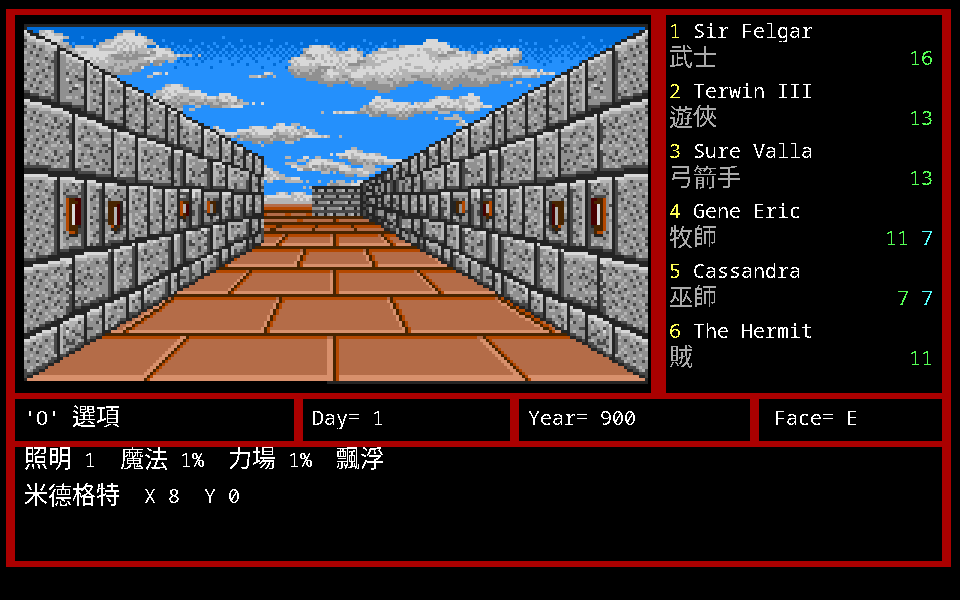
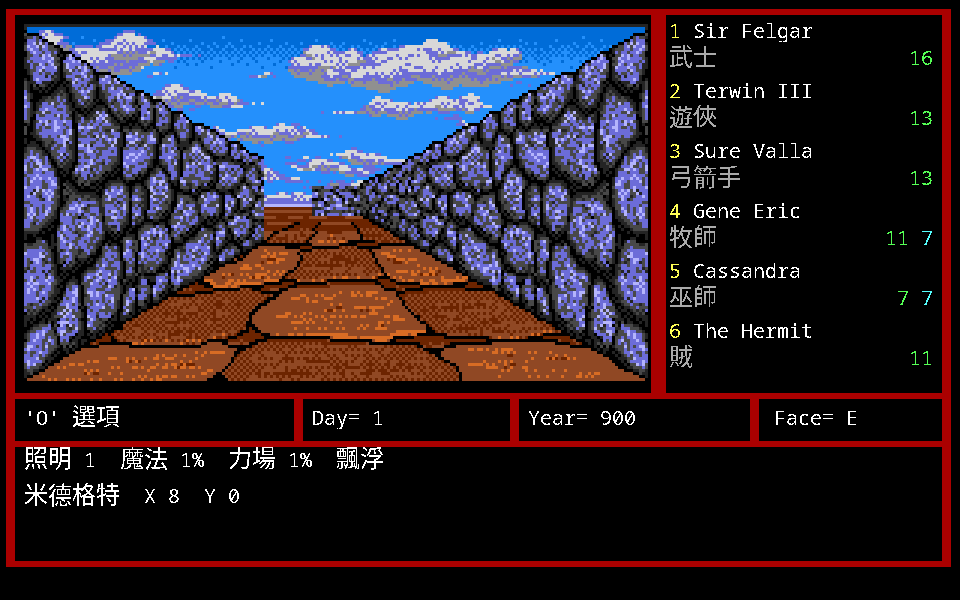
fix: Mega Drive 城鎮用的是亂石砌那一套，不是方石砌
實機截圖定案：Middlegate (8,0) 面東的區域類型是 **0**，畫面是藍紫色的亂石
配紅褐地磚，不是先前選的方石砌。`sub_FC38` 的跳表把類型 0 與 1 收到同一批
素材，兩型靠調色盤分色（類型 0 第 1 條、類型 1 第 2 條）—— 所以「看起來
不像同一個地方」不能當反證。`mdSceneArea` 改成 0，截圖跟著重出。

先前是拿「哪一套最像 DOS 的 `TOWN.16`」推的，那是二手推論；區域類型的值
與跳表才是一手資料。推翻紀錄進 CONTEXT §5。

光照的文件也照實測補完：亮度 0–8，`floor(分量 × 亮度 ÷ 8)`，實際只用四個
穩態級（8 正常／6 夜晚／2 無光源／0 換場起點），其餘只在漸變的中間幀出現。
`-$4F0(a5)` 是**光源剩餘時間不是強度**（寫 1、10、255 結果相同），
`-$35D4(a5)` 是戶外的日光目標級、不是目前級數。**火把的火焰不吃光照** ——
CRAM 第 3 條那三格永遠是未調暗的值，所以暗地城裡火把仍然亮橘。

驗證方式值得記：**想量「連續變化的量」就去中斷漸變迴圈**，一次漸變把七級
全部拿齊，不必一個穩態跑一次模擬器。

Changed region(s): [[0.0, 0.03, 0.6875, 0.66]]

diff --git a/internal/ui/session.go b/internal/ui/session.go
@@ -2101,10 +2101,11 @@ func loadMSXTown(dir string) (*view.TownSet, error) {
 
 // mdSceneArea 是 Mega Drive 三套場景素材裡要拿來當「城鎮」的那一套。
 //
-// 三套的內容分別是：0 粗石洞窟、1 方石牆（牆上有壁燈，對應 DOS 的
-// `TOWN.16`）、2 戶外山景。remake 目前整個遊戲只用一套場景素材，
-// 所以取 1。
-const mdSceneArea = 1
+// `sub_FC38` 的七格跳表把區域類型收斂成三套：類型 0、1 是亂石砌，
+// 2、5 是方石砌，3、4、6 是戶外山景。**Middlegate 是類型 0**，所以城鎮要
+// 用第 0 套 —— 實機截圖是藍紫色的亂石配紅褐地磚，不是方石砌那一套。
+// remake 目前整個遊戲只用一套場景素材。
+const mdSceneArea = 0
 
 type mdSceneManifest struct {
 	Source string `json:"source"`

diff --git a/tools/mdscene.py b/tools/mdscene.py
@@ -134,8 +134,11 @@ GRAY = [(255, 0, 255)] + [(i * 17, i * 17, i * 17) for i in range(1, 16)]
 ROM_CRAM = 0x6FBEA
 
 # 三塊素材各自該用第幾條。第 0 塊同時服務區域類型 0 與 1，**那兩型用的不是
-# 同一條**（1 與 2）—— 同一批牆面素材在兩種區域類型下是不同顏色。
-# 這裡取第一型（第 1 條）；remake 用的是第 1 塊。
+# 同一條**（1 與 2）—— 同一批牆面素材在兩種區域類型下是不同顏色：
+# 城鎮（類型 0）是藍紫色的亂石，地城（類型 1）是灰色的。這裡取城鎮那一條。
+#
+# 實機對照：Middlegate (8,0) 面東是**類型 0**，畫面是藍紫亂石 ＋ 紅褐地磚
+# （`workplace/genesis/out/light/04-town-day-screen.png`）。
 BLOCK_PAL_LINE = [1, 0, 3]
 
 

diff --git a/CONTEXT.md b/CONTEXT.md
@@ -43,7 +43,7 @@
 | remake 一般寶箱 | 一般戰鬥勝利已接到 `Encounter.VictoryChestFromItems`→`ui.Session.Chest`，勝利後自動開四選單；怪物 `+0x10` 掉落欄位、`sub_188FC` 金幣／寶石累加、`sub_19BF8` 0–3 件物品生成均有 typed 鏈。快速戰鬥、正常 UI、逃跑移除前累加與離開清除均有測試；競技賽與事件 `0x2a` 分支保留。**「探索中搜尋寶箱的來源」已結案（2026-08-14）：原版沒有那條路徑**，`ds:0434`／`ds:6950–695F` 的八個寫入端全部掃出，內容只來自事件腳本與戰鬥戰利品。見 [`chest-trigger-oracle.md`](docs/research/chest-trigger-oracle.md)。**觸發點也結案了（2026-08-15）**：四選單由探索模式按 `S`（搜尋）打開 —— `2PLAY` 指令分派 `0x181E8` → thunk `0x17336` → root `0x13814`，那支五組獎賞陣列全空就印 `Nothing Here!`。`_2misc_e02` 的 thunk 全域只有這一個呼叫端，所以原版**所有**獎賞都只能經搜尋領取。`ds:0434 == 0xFE`（神殿）由主迴圈 `0x18032` 自動 `inc` 成 `0xFF` 並自動搜尋，先前列為「語意未定」的那條就是它。remake 已改成戰後擺著、按 `S` 才開，並補上「這裡什麼都沒有」。見 [`command-keys-oracle.md`](docs/research/command-keys-oracle.md)。| 事件 `0x2a` 那條 remake 仍自動發放（原版要按 `S`），差異理由記在 [`polish-spec`](docs/polish-spec.md) P11。|
 | remake 怪物動畫 | 使用者選擇先接可逆的保守方案：正常戰鬥 UI 逐步遵守 `MONSTERS.16` 的原始 hold，播放每張圖第一個完整合法序列；無合法序列退回基準圖，換場重設。這證明動畫資料與 UI 垂直鏈已接通，但序列對應待機／攻擊／受擊仍是強推論，不宣稱 DOS exact。**動畫表的結構已修正（2026-08-15）**：沒有「表頭」，`FF` 是每一段的結束標記，59 個槽共 240 段（原本記 181 是把 59 個第一段當表頭扣掉）；槽 9 檔案裡那張表是壞的，原版在 root `0x12711` 用 `ds:4B92` 的 36 bytes 修補，remake 已照做。**第一段不是動畫是播放腳本**（段編號, 停留），bit 7 ＝「`rand(1, 低7位)` 隨機挑一段」（root `0x15735` 呼叫的正是亂數產生器）；136 個腳本項的段編號一律落在 1..段數-1，零例外。影格編號越界也不是壞資料 —— 原版比對影格數後畫影格 0。remake 已照腳本挑段並隨機化。| 日後取得 DOS 連續戰鬥 oracle 時，只替換序列用途選擇；不得推翻已證實的影格、序列與 hold 解碼。|
 | remake 本機音樂 | Mega Drive／MSX／Amiga 三版均已由序列器與正常呼叫證實有音樂；Mega Drive 的 16 首場景曲目最完整。引擎已有 PCM WAV 音樂包 manifest、完整性／路徑安全驗證、正常 UI 的城鎮／地城／戶外／戰鬥／設施映射與循環播放器；缺少部分包角色時明確靜音。原版音檔不進版控，`local-full --music-pack-dir` 才可帶入。見 [`music.md`](docs/music.md)。| **擷取工具鏈已完成並驗證（2026-08-13）**：`mm2-blastem:0.6.3-pre-732f5689d438` ＋ libvgm `61fc6725` 的 `vgm2wav` ＋ 檔頭正規化，`tools/blastem_run.sh` 一次執行從 ROM 走到 remake 解碼器實際吃得下的 WAV。**18 首曲目已由本專案自己解出**（不再依賴 VGMRips 的外部清單）：每首前 4 bytes 是結束指標，18 個 `move.l (sp)+,-$37B0(a5)` 前面 100% 是 `move.l #<曲目位址>,(sp)`，零例外。觸發點也定了 —— 往 RAM `$FFCB62` 寫一個 32-bit 曲目位址，下一次 vblank 就換曲，不必玩到那個場景。選曲的 21 個 case 也解完（`0x0B620` 的跳表 switch，case 19 依另一變數在四首間分支），相異曲目正好 18 首，與位元組掃描互相印證。**逐首擷取已打通**：ROM 一個位元組都不改（這片改任何一個位元組就開不了機，機制是 `sub_BFC28`：ROM `0`–`0xBFC28` 的長字加總必須等於 `0x3ACE1FBA`），改用 GDB remote stub（`blastem -D`，走 stdio）在 `0x06CB02` 下中斷點、每幀寫 RAM `$FFCB62`、壓 40 幀並驗證 `$FFCB5E` 切過去才錄。`tools/md_music_dump.sh` 一次跑完 18 首。**場景對照也解出來了**：39 個呼叫端（11 直接 ＋ 28 走 a5 thunk，只掃直接呼叫會漏七成）逐一對到 case 與曲目，再用地圖區間（`sub_FB86`）與字串錨點定語意。**16 個角色全部已定，對到 16 首不同曲子**；九個標已證實 —— 四個區域主題靠地圖區間與 DOS 版語意互相印證，五個設施（旅店 case 11／鐵匠 13／酒館 14／神殿與法師公會同為 15／訓練所 16）是**在模擬器裡逐一走進去量的**：選曲函式下中斷點，記下 `d0` 與回傳位址，配店內截圖。走法由 `tools/md_town_route.py` 從 DOS 版 `MAP.DAT` 的牆位元 BFS 算出（兩版地圖佈局相同，六個入口座標完全吻合），不必盲試。音樂包由 `tools/md_music_manifest.py` 產生，過 remake 自己的 `music.LoadManifestFile` 驗證。**場景對照一律用反組譯推、不用人耳**，整條推導在 `tools/md_music_scenes.py` 可重跑。見 [`md-music-scenes.md`](docs/research/md-music-scenes.md)。現有推廣片仍標為 DOS PC Speaker。見 [`md-music-driver.md`](docs/research/md-music-driver.md)。|
-| Mega Drive RE | **收尾（2026-08-14）**。缺口清單清空：第一人稱繪製鏈（`sub_FC38` → `sub_3DE2` → DMA）、視野貼圖格式、六個設施與戰鬥的音樂對照（走進去量的，配截圖）、開機完整性檢查 `sub_BFC28`、隊伍座標 `0xFFF3A4`／`0xFFF3A6`、角色記錄 `0xFFCE9F`＋134 全部解出。動態工具鏈完成：`md-trace`／`md-walk`（依 SP 判 modal、`--expect` 逐步核對座標）／`md-fight`（自動戰鬥＋無敵）／`md-ram-diff`。見 [`md-re-status.md`](docs/research/md-re-status.md)。| **2026-08-15：那五個角色現在播得到了。** remake 加了一次性音效（stinger）路徑：戰鬥中消滅敵人／隊員陣亡、打贏、全滅、按 `S` 撿到戰利品各對一個角色，一幀只播一個（依重要性挑）。`castle` 也接上了 —— `2PLAY _2play_e10` 的跳表 case 2 與 5 推 `castle*.16`（檔名從 DGROUP 初值段解指標讀出來的），對上場景碼區間就是地圖 45–59。所以**戰鬥結算那幾首的強推論現在會被玩家聽到**，值得補一次動態驗證。`intro` 也接上了（2026-08-15）：remake 開機先進片頭，按任意鍵進遊戲。**2026-08-16：第一人稱場景素材也接進 `F6` 了。**視野貼圖表（`0xFFCD40`，60 個長字）、二十個落點、地板與天空、調色盤（`0x6FC2A` ＝ CRAM 第 2 條）全部解出來，用 BlastEm 傾印的視野格子陣列組出來的畫面與模擬器自己的組合緩衝區**逐像素相同**（24,960 個全中）。工具是 `tools/mdscene.py`，載入是 `loadMDTown`。**光照也量出來了**：亮度 0–8 九級，`分量 × 亮度 ÷ 8`，視野只用 8（正常）與 2（黑暗處）兩個穩定值，過渡由 `sub_B880(起,迄)` 每幀走一格；日夜另有一組目標 `-$35D4(a5)`（晝 8、夜 6）。**素材也全部抓出來編目了**（`tools/mdassets.py`）：tile 池 72、視野點陣圖 91、整頁介面 tilemap 3（建角／探索／戰鬥，這一輪新解）、裸 tile 池 2、調色盤 80 組。 |
+| Mega Drive RE | **收尾（2026-08-14）**。缺口清單清空：第一人稱繪製鏈（`sub_FC38` → `sub_3DE2` → DMA）、視野貼圖格式、六個設施與戰鬥的音樂對照（走進去量的，配截圖）、開機完整性檢查 `sub_BFC28`、隊伍座標 `0xFFF3A4`／`0xFFF3A6`、角色記錄 `0xFFCE9F`＋134 全部解出。動態工具鏈完成：`md-trace`／`md-walk`（依 SP 判 modal、`--expect` 逐步核對座標）／`md-fight`（自動戰鬥＋無敵）／`md-ram-diff`。見 [`md-re-status.md`](docs/research/md-re-status.md)。| **2026-08-15：那五個角色現在播得到了。** remake 加了一次性音效（stinger）路徑：戰鬥中消滅敵人／隊員陣亡、打贏、全滅、按 `S` 撿到戰利品各對一個角色，一幀只播一個（依重要性挑）。`castle` 也接上了 —— `2PLAY _2play_e10` 的跳表 case 2 與 5 推 `castle*.16`（檔名從 DGROUP 初值段解指標讀出來的），對上場景碼區間就是地圖 45–59。所以**戰鬥結算那幾首的強推論現在會被玩家聽到**，值得補一次動態驗證。`intro` 也接上了（2026-08-15）：remake 開機先進片頭，按任意鍵進遊戲。**2026-08-16：第一人稱場景素材也接進 `F6` 了。**視野貼圖表（`0xFFCD40`，60 個長字）、二十個落點、地板與天空、調色盤（`0x6FC2A` ＝ CRAM 第 2 條）全部解出來，用 BlastEm 傾印的視野格子陣列組出來的畫面與模擬器自己的組合緩衝區**逐像素相同**（24,960 個全中）。工具是 `tools/mdscene.py`，載入是 `loadMDTown`。**光照也量出來了**：亮度 0–8 九級，`分量 × 亮度 ÷ 8`，實際只用四個穩態級（8 正常、6 夜晚、2 無光源、0 換場起點），過渡由 `sub_B880(起,迄)` 每幀走一格；日夜另有一組目標 `-$35D4(a5)`（晝 8、夜 6）。**素材也全部抓出來編目了**（`tools/mdassets.py`）：tile 池 72、視野點陣圖 91、整頁介面 tilemap 3（建角／探索／戰鬥，這一輪新解）、裸 tile 池 2、調色盤 80 組。 |
 | remake 片頭 | **已完成（2026-08-15）**：`MASTER.16` 十五張裡 320×196 的那張是底圖，其餘 14 張是疊在上面的動畫。透空色 **7**、每張的落點都用 60 張 DOSBox 截圖逐像素定出來（第 0 張在 (160, 161)：只有 key=7 能零誤差，落點錯一格不合像素從 0 跳到 391）。13 張全部在 27 秒的取樣裡出現過。獨角獸的頭尾常態交替，樹叢裡幾張臉偶爾探出來。見 [`04-graphics.md`](docs/formats/04-graphics.md) §標題畫面的疊圖動畫。| **換格與觸發規則也解完了（2026-08-16）**：`1MENU1` 的 `sub_1C1FA` 讀 `ds:18D8` 的 **47 步固定清單**（不是亂數），落點在 `ds:1936`／`ds:1954`，與截圖反推的位置逐項相同；一步是 `sub_14EFE(0x46)` ＝ 700 個計時器 tick，而 `TIMER.DRV` 把 PIT 除數設成 `0x0400`（1,165.2 Hz），所以 0.601 秒一步、47 步 28.2 秒，跑完原版自己進主選單。remake 照這張清單播。第 5／6／9 張各有 3–9 個像素與截圖不合，原因未查。|
 | DOS 反組譯覆蓋 | **稽核過（2026-08-15）**：14 個 overlay ＋ root 共 835 個函式。目錄總表與各 overlay 的狀態在 [`docs/re/README.md`](docs/re/README.md)。`1MENU1`、`2CAVES`、`2BRAIN` 三個 overlay **全解**。角色記錄 `+125`／`+129` 的每一個位元、`ds:03F6` 起 24 個全域位元組（＝可雇用夥伴的解鎖旗標）、三隻獸旗標的寫入時機見 [`docs/re/03`](docs/re/03-character-flags.md)；酒館的五個選單項、酒與餐點的效果表、餐點在 `+118` 留下的旗標、依日期輪替的傳聞，以及**七張執行時載入表的 `str.dat` 索引**（訊息 `n` ＝ `str.(114+n)`，由三個獨立呼叫點驗證）見 [`docs/re/04`](docs/re/04-2brain-tavern.md)。**`1RETINN` 也全解了（2026-08-16）**：旅店登記、名冊與隊伍編組（一般角色 6 人、連雇傭兵 8 人的兩層上限）、五座城的離開落點表（`ds:21E8`／`21EE`／`21F4`，第 0 項 (7,3) 面 `'N'` 與 DOSBox 量到的起點吻合）、以及**全滅回到最後投宿的旅店**（`_1retinn_e04`），見 [`docs/re/06`](docs/re/06-1retinn-roster.md)。任務線的玩法在 [`docs/quests.md`](docs/quests.md)，四十則酒館傳聞的中英對照在 [`docs/tavern-rumors.md`](docs/tavern-rumors.md)。**結局控制室已全解（2026-08-16）**：`2PLAY` 的 `0x0e` 分派 `0xFD` → `_2smith_e01`（2SMITH `+CEC8`）先用 `ds:9680` 的五格清單（`FF E1 C2 C1 E0` ＝ Sheltem ＋ 水／風／火／土四元素）打一場 `ds:0415 = 0x83` 的特殊戰鬥，過了才進 `sub_1D2A4`。控制室三道關卡：十格中止碼比對 `ds:45FC` 的 `"WAFE      "`、隊伍要有人帶 `+129` bit 5、然後是**替代加密的密碼題** —— `sub_1D19C` 每次重抽一張 0..25 的隨機字母表，四行密文的明文是 `str.302`–`305`（泰拉憲法序言），玩家要把 `ds:45BA` 指到的 `"Preamble"` 用同一張表編碼、在 15 分鐘內打出那 8 個字元。通關給每人 50,000,000 經驗（`+129` bit 3 擋重複），最終分數 ＝ 全隊經驗值總和。四十七條字串是 `sub_17732(3)` 從 `str.280`–`str.326` 一次讀進來的。見 [`docs/re/05`](docs/re/05-2smith-control-room.md)。**`2SMITH` 鐵匠（[`07`](docs/re/07-2smith-shop.md)）、`2CMDS`（[`08`](docs/re/08-2cmds-inventory.md)）、`2COMBAT`（[`09`](docs/re/09-2combat-map.md)）三個 overlay 也在 2026-08-16 全解。**`2COMBAT` 那一份解出**兩套獨立的怪物攻擊系統**：近身命中附帶的三十種效果（`ds:9E27`）與遠程／法術的三十二種（`ds:9E24`，吐息威力＝這隻怪目前的 HP、群體攻擊一次只打 3–6 個位置且順序由 `ds:1462` 四組決定、`explodes` 與 `frenzies` 打完自爆）。連帶把**八個狀況位元的名字**定出來（`ds:1456`／`ds:145C` 把位元值與 `ds:106E` 的十六則訊息直接配對，`0x01` 詛咒／`0x02` 沈默／`0x20` 麻痺／`0xFF` 抹消先前都沒有來源）。| **`2COMBAT` 已無未解的函式**，剩下的缺口是 remake 還沒有這整套遠程／法術攻擊（[`docs/todo.md`](docs/todo.md) N4b）。root 的無筆記函式多數是 C runtime，不列缺口。|
 | 原版 oracle 未知 | 戰鬥編隊／目標命令的完整細節、設施 overlay 的逐畫面行為、原版存檔格式，以及部分第一人稱遠景／火炬差異仍未證實。| 只在它們影響上述玩家 gate 時進行最小充分的 DOSBox 重播；其餘保留為證據限制。|
@@ -350,6 +350,7 @@ LSEEK 過去。**地圖號直接索引，中間沒有轉換。**
 | Amiga 版 `mm2` 的 A4 = 0x10000，四個檔名逐字精確命中所以值是對的 | **A4 = 0x2F324**（thunk 表起點 `0x2732C` + 0x7FF8）。定址窗 `[0x27324, 0x37324)` 在資料段與 BSS 上，**蓋不到程式段裡的檔名表**（0x85C2–0x8716），所以那些字串本來就不是靠 A4 取的 | 「命中檔名」不是驗證：A4 的窗有 64 KB，任何一個 A4 都會讓一堆位移落進某個字串裡。改看結構就一次定案 —— 3,237 條 `jsr (d16,a4)` 的位移有 236/249 是 6 的倍數、最小值恰為 `−0x7FF8`，6 bytes 一格就是 `jmp abs.l`，檔案裡唯一那張表在 `0x2732C` |
 | 角色記錄 `+38` 的 `0x01`／`0x02`／`0x20` 與整個位元組 `0xFF` 語意未知，只知道誰造成它們 | **`0x01` 詛咒、`0x02` 沈默、`0x20` 麻痺、`0xFF` 抹消**（`is cursed`／`is silenced`／`is paralyzed`／`is eradicated!!`）| `2COMBAT` 的 `ds:1456`（位元值）與 `ds:145C`（訊息索引）把位元直接配到 `ds:106E` 的十六則訊息；另一條獨立證據是特殊攻擊三十路跳表的 case 1–16 與那張訊息表逐項對齊。**先前只從「哪支法術清哪幾位」單向推，治不到的位元就永遠推不出來** —— 反方向（誰造成它）才有答案 |
 | Mega Drive 第一人稱視野用 ROM `0x6FBEA` 的**第 0 條**調色盤（拿它畫出來灰石、白雲、赭紅地磚，整幅自洽）| **由區域類型決定**：類型 0 → 第 1 條、類型 1 → 第 2 條、類型 2／5 → 第 0 條、戶外 → 第 3 條（`0x8166` 起那段依 `-$4C6(a5)` 抄不同的 32 bytes）。remake 用的方石砌那一套是類型 2／5，所以是第 0 條 | 視野那塊 nametable 的項值 bit14–13 ＝ 10 ＝ 調色盤線 2；再拿執行時的 CRAM 對回去，執行時取樣的那一幀是區域類型 1，CRAM 第 2 條與 `0x6FC2A` 的每個 3-bit 分量差剛好右移 2 位（光照＝2，公式是 `分量 × 亮度 ÷ 8`），十六格全中。**「畫出來像合理的畫面」不是證據** —— 四條線畫出來都合理，差別只在雲是白的還是土黃的；要分辨只能看誰參考它、以及執行時實際載進 CRAM 的是哪一條 |
+| Mega Drive 版城鎮用的是「方石砌」那一套場景素材（`0x06FFAE` 起，牆上有壁燈，看起來最像 DOS 的 `TOWN.16`）| **城鎮是區域類型 0，用的是亂石砌那一套**（`0x0795EC` 起），配第 1 條調色盤 —— 藍紫色的石頭 ＋ 紅褐地磚。方石砌那一套是類型 2、5 | 實機截圖：Middlegate (8,0) 面東，`0xFFFE4C`（區域類型）＝ 0。**先前是拿「哪一套最像 DOS 的城鎮」推的** —— 那是二手推論；區域類型的值與跳表才是一手資料。同一批亂石素材在類型 0 與 1 底下是不同顏色，所以「看起來不像同一個地方」也不能當反證 |
 
 DGROUP 那條的教訓獨立成一條規則：**段落屬性描述的是載入器被告知了什麼，
 不是檔案裡有什麼。** 要判斷某塊資料有沒有初值，量實體檔案。

diff --git a/docs/todo.md b/docs/todo.md
@@ -56,7 +56,8 @@ remake 少了整段機制。所以這幾項不能當成純文件工作跳過。
 | ~~A2~~ | Mega Drive 的場景素材 | **解完並接進 `F6`**，與執行時的組合緩衝區**逐像素相同**（24,960 個全中）。調色盤依區域類型挑（類型 2／5 用第 0 條）、光照公式 `分量 × 亮度 ÷ 8` 也量出來了。見 [`research/02`](research/02-other-platforms.md) |
 | A4 | Mega Drive 還沒歸類的 LZSS 區塊 | `tools/mdassets.py` 掃出 150 個只通過結構條件的區塊，其中**只有 `0x0345D0` 一個在 ROM 裡有人指到**（1210 bytes，內容像是一張遞增的 16 位元索引表），其餘多半是假陽性。要往下追就從那一個開始 |
 | A6 | Mega Drive 的 90 個英文文字區塊還沒接進對照 | 已經解出並存成 `workplace/gfx/md-all/text/*.txt`（合計 81 KB）。字串之間沒有分隔符，取用靠索引表 —— 索引表在哪還沒找。找到之後可以與 DOS 的 `STR.DAT` 逐句對照，當譯文的第二份佐證 |
-| A5 | Mega Drive 的光照沒接進 remake | 公式與級數都有了（`research/02`「光照」），remake 目前一律用未調暗的原值。要接的話是在 `TownSet` 上加一個亮度係數 —— 但 DOS 版自己的暗處規則還沒查，兩邊要一起定 |
+| A7 | Mega Drive 的火炬 remake 還沒接 | 實機截圖看得到牆上的火把，我們的沒有。原版走的是另一條路（`sub_34E8` ＋ `-$3742(a5)` 那張陣列），火焰顏色是逐幀換 CRAM 第 3 條的第 5–7 格、而且不吃光照 |
+| A5 | Mega Drive 的光照沒接進 remake | 公式、級數、觸發條件都量完了（`research/02`「光照」），remake 目前一律用未調暗的原值。要接的話是在 `TownSet` 上加一個亮度係數（`分量 × 亮度 ÷ 8`，火把那三格例外不調暗）—— 但 DOS 版自己的暗處規則還沒查，兩邊要一起定 |
 | ~~A3~~ | 片頭疊圖的換格週期與觸發規則 | **解完**：`ds:18D8` 是 47 步的固定清單、`ds:1936`／`ds:1954` 是落點，一步 700 個 tick（PIT 除數 `0x0400` ⇒ 0.601 秒）。remake 照它播。見 [`formats/04`](formats/04-graphics.md) |
 
 ## 5. 已經沒有未解項的區塊
